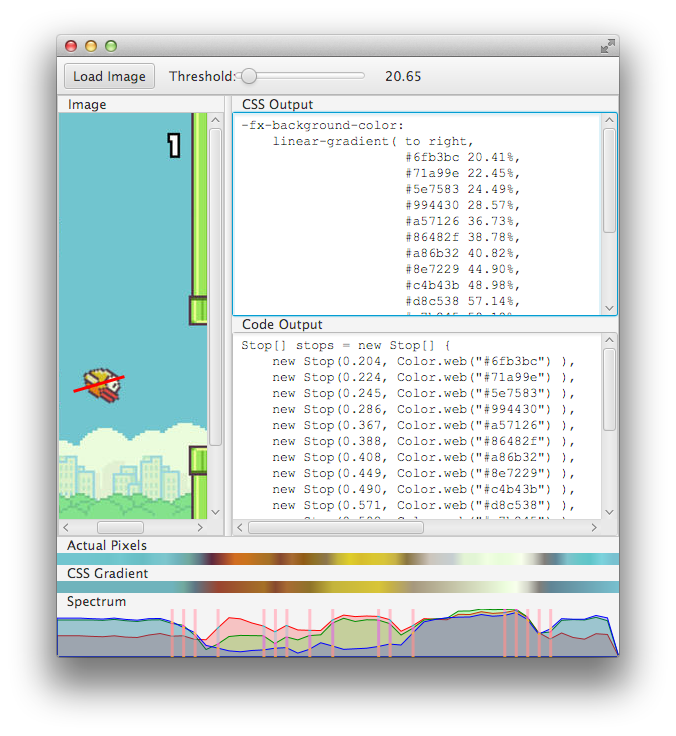
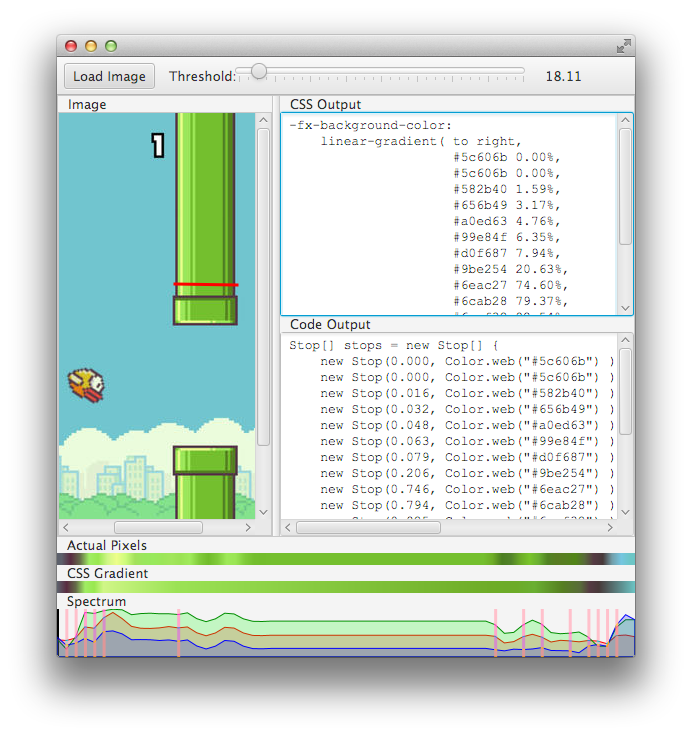
Bigger Slider, Color graph RHS fix, New Screenshot

diff --git a/src/main/resources/MainApp.css b/src/main/resources/MainApp.css
@@ -7,3 +7,9 @@ Label {
 #threshold_label {
     padding-left: 1em ;
 }
+#threshold {
+    -fx-pref-width: 300 ;
+    -fx-show-tick-marks: true ;
+    -fx-major-tick-unit: 32 ;
+    -fx-minor-tick-unit: 4 ;
+}

diff --git a/src/main/java/com/bloidonia/fxtools/gradient/MainAppController.java b/src/main/java/com/bloidonia/fxtools/gradient/MainAppController.java
@@ -25,6 +25,7 @@ import java.util.ResourceBundle;
 import java.util.logging.Level;
 import java.util.logging.Logger;
 import java.util.stream.Collectors;
+import java.util.stream.IntStream;
 import java.util.stream.Stream;
 import javafx.beans.property.ListProperty;
 import javafx.beans.property.SimpleListProperty;
@@ -174,15 +175,15 @@ public class MainAppController implements Initializable {
     }
 
     class Location {
-        private final int location ;
+        private final Integer location ;
         private final List<RGB> pixels ;
         
-        public Location( int location, List<RGB> pixels ) {
+        public Location( Integer location, List<RGB> pixels ) {
             this.location = location ;
             this.pixels = pixels ;
         }
         
-        public int getLocation() { return location ; }
+        public Integer getLocation() { return location ; }
         public List<RGB> getPixels() { return pixels ; }
         @Override
         public String toString() { return String.format( "[%d:%s]", location, pixels.toString() ) ; }
@@ -190,23 +191,25 @@ public class MainAppController implements Initializable {
 
     private List<Integer> findPeaks( List<RGB> colors ) {
         final float THRESHOLD = threshold.valueProperty().floatValue() ;
-        return Stream.iterate( 0, i -> i + 1 )
-              .limit( Math.max( colors.size() - 2, 0 ) )
-              .map( i -> new Location( i, colors.stream().skip( i ).limit( 3 ).collect( Collectors.toList() ) ) )
-              .filter( (Location l) -> {
-                  float dr = l.getPixels().get( 0 ).getR() + ( ( l.getPixels().get( 2 ).getR() - l.getPixels().get( 0 ).getR() ) * 0.5f ) ;
-                  float dg = l.getPixels().get( 0 ).getG() + ( ( l.getPixels().get( 2 ).getG() - l.getPixels().get( 0 ).getG() ) * 0.5f ) ;
-                  float db = l.getPixels().get( 0 ).getB() + ( ( l.getPixels().get( 2 ).getB() - l.getPixels().get( 0 ).getB() ) * 0.5f ) ;
-                  return Math.abs( l.getPixels().get( 1 ).getR() - dr ) > THRESHOLD ||
-                         Math.abs( l.getPixels().get( 1 ).getG() - dg ) > THRESHOLD ||
-                         Math.abs( l.getPixels().get( 1 ).getB() - db ) > THRESHOLD ;
-              } )
-              .map( l -> l.getLocation() ) 
-              .collect( Collectors.toList() ) ;
+
+        return Stream.concat( Stream.of( 0 ),
+                                  Stream.iterate( 0, i -> i + 1 )
+                                        .limit( Math.max( colors.size() - 2, 0 ) )
+                                        .map( i -> new Location( i, colors.stream().skip( i ).limit( 3 ).collect( Collectors.toList() ) ) )
+                                        .filter( (Location l) -> {
+                                            float dr = l.getPixels().get( 0 ).getR() + ( ( l.getPixels().get( 2 ).getR() - l.getPixels().get( 0 ).getR() ) * 0.5f ) ;
+                                            float dg = l.getPixels().get( 0 ).getG() + ( ( l.getPixels().get( 2 ).getG() - l.getPixels().get( 0 ).getG() ) * 0.5f ) ;
+                                            float db = l.getPixels().get( 0 ).getB() + ( ( l.getPixels().get( 2 ).getB() - l.getPixels().get( 0 ).getB() ) * 0.5f ) ;
+                                            return Math.abs( l.getPixels().get( 1 ).getR() - dr ) > THRESHOLD ||
+                                                   Math.abs( l.getPixels().get( 1 ).getG() - dg ) > THRESHOLD ||
+                                                   Math.abs( l.getPixels().get( 1 ).getB() - db ) > THRESHOLD ;
+                                        } )
+                                        .map( l -> l.getLocation() ) ).collect( Collectors.toList() ) ;
     }
 
     private String buildCss( List<RGB> colors, List<Integer> peaks ) {
         return peaks.stream()
+             .limit( Math.max( peaks.size() - 1, 1 ) )
              .map( (pos) ->
                  String.format( "%s#%s %.2f%%,\n",
                                 TWENTYONE_SPACES,

diff --git a/src/main/java/com/bloidonia/fxtools/gradient/GraphPane.java b/src/main/java/com/bloidonia/fxtools/gradient/GraphPane.java
@@ -101,7 +101,7 @@ public class GraphPane extends Pane {
         double w = this.widthProperty().get() ;
         g.clearRect( 0, 0, w, h );
         double dh = h / 255.0 ;
-        double dw = w / pixels.size() ;
+        double dw = w / ( pixels.size() - 1 ) ;
         g.setStroke( Color.RED ) ;
         g.setFill( Color.rgb( 255, 0, 0, 0.2 ) ) ;
         render( g, h, dw, dh, pixels, (rgb) -> rgb.getR() ) ;
